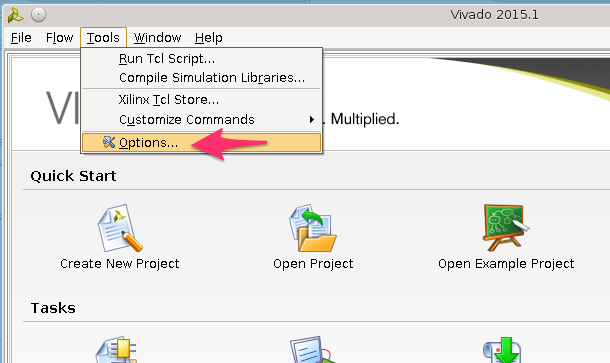
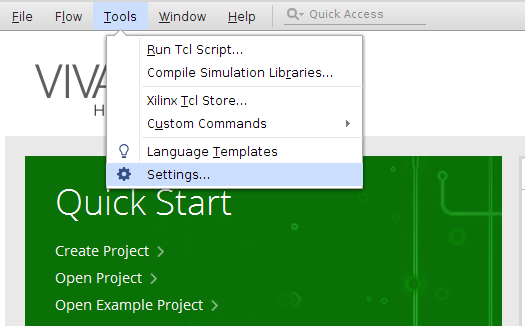
Updated instructions to configure preferred editor in Vivado

diff --git a/manual/opening.md b/manual/opening.md
@@ -145,12 +145,12 @@ could add `-noSplash` to skip the splash dialog.
 
 You can configure Sigasi Studio to be the preferred editor for Xilinx Vivado.
 
-1. In Xilinx Vivado, Click **Tools > Options...**
-2. Open the **General** tab (selected by default)
-3. Look for the **Text Editor** section and replace the '**Vivado Text Editor** (default)' with '**Custom Editor...**'
-4. Next click the **...** (Custom editor)  button and enter:
+1. In Xilinx Vivado, click **Tools > Settings...**
+2. Open the **Tool Settings > Text Editor** tab
+3. Locate the **Current Editor** drop down menu and instead of '**Vivado Text Editor** (default)' select '**Custom Editor...**'
+4. If needed click the **...** button and in the pop-up dialog enter:
     `<path to Sigasi Studio>/sigasi.exe [file name] +[line number]`
-5. Click **OK** to close the dialog
+5. Click **OK** to close the dialog and **OK** to close the Settings window.
 
 ![Configuring Sigasi Studio as default editor in Xilinx Vivado menu](images/vivado_a1.png "Configuring Sigasi Studio as default editor in Xilinx Vivado menu")
 ![Configuring Sigasi Studio as default editor in Xilinx Vivado](images/vivado_a2.png "Configuring Sigasi Studio as default editor in Xilinx Vivado")
